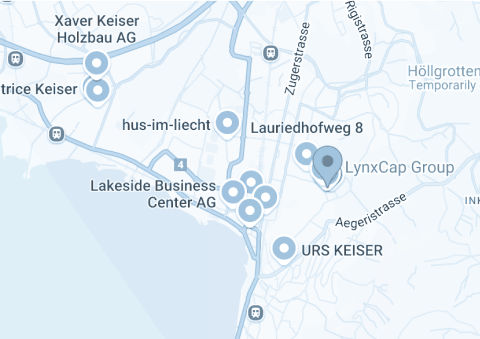
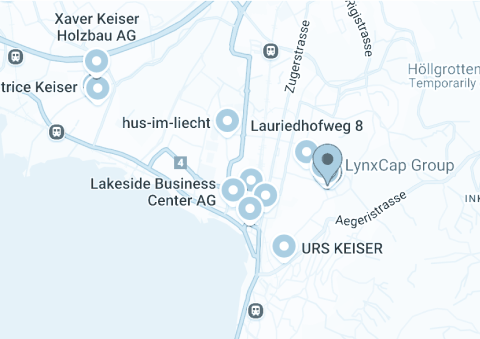
fixes after review

diff --git a/src/index.js b/src/index.js
@@ -3,18 +3,18 @@ import './index.css';
 const init = () => {
   const elements = {
     burger: document.querySelector('[data-id="open-nav"]'),
-    close: document.querySelector('[data-id="close-nav"]'),
+    closeNav: document.querySelector('[data-id="close-nav"]'),
     mobileNav: document.querySelector('[data-id="mobile-nav"]'),
     termsTrigger: document.querySelector('[data-id="terms-trigger"]'),
     termsOverlay: document.querySelector('[data-id="terms-overlay"]'),
-    termsClose: document.querySelectorAll('[data-id="terms-close"]'),
+    termsClose: document.querySelectorAll('[data-id="terms-close"]') || [],
     termsContent: document.querySelector('[data-id="terms"]'),
-    accordionItems: document.querySelectorAll('[data-id="accordion-item'),
+    accordionItems: document.querySelectorAll('[data-id="accordion-item') || [],
     requestOverlay: document.querySelector('[data-id="request-modal-overlay"]'),
     requestModalTrigger: document.querySelector('[data-id="request-modal-trigger"]'),
-    requestModalClose: document.querySelectorAll('[data-id="request-modal-close"]'),
-    teamModalTrigger: document.querySelectorAll('[data-id="team-trigger"]'),
-    teamModalClose: document.querySelectorAll('[data-id="team-close"]'),
+    requestModalClose: document.querySelectorAll('[data-id="request-modal-close"]') || [],
+    teamModalTrigger: document.querySelectorAll('[data-id="team-trigger"]') || [],
+    teamModalClose: document.querySelectorAll('[data-id="team-close"]') || [],
     teamModalOverlay: document.querySelector('[data-id="team-overlay"]'),
     teamContent: document.querySelector('[data-id="team"]')
   };
@@ -29,36 +29,36 @@ const init = () => {
 
   const app = {
     openTerms() {
-      elements.termsOverlay.classList.remove(classes.hidden);
-      document.body.classList.add(classes.noScroll);
+      elements.termsOverlay?.classList.remove(classes.hidden);
+      document.body?.classList.add(classes.noScroll);
       setTimeout(() => {
-        elements.termsContent.classList.remove(classes.termsHidden);
+        elements.termsContent?.classList.remove(classes.termsHidden);
       });
     },
     closeTerms() {
-      elements.termsOverlay.classList.add(classes.hidden);
-      elements.termsContent.classList.add(classes.termsHidden);
+      elements.termsOverlay?.classList.add(classes.hidden);
+      elements.termsContent?.classList.add(classes.termsHidden);
       document.body.classList.remove(classes.noScroll);
     },
     openRequestModal() {
-      elements.requestOverlay.classList.remove(classes.hidden);
+      elements.requestOverlay?.classList.remove(classes.hidden);
       document.body.classList.add(classes.noScroll);
     },
     closeRequestModal() {
-      elements.requestOverlay.classList.add(classes.hidden);
+      elements.requestOverlay?.classList.add(classes.hidden);
       document.body.classList.remove(classes.noScroll);
     },
 
     openTeamModal() {
-      elements.teamModalOverlay.classList.remove(classes.hidden);
+      elements.teamModalOverlay?.classList.remove(classes.hidden);
       document.body.classList.add(classes.noScroll);
       setTimeout(() => {
-        elements.teamContent.classList.remove(classes.termsHidden);
+        elements.teamContent?.classList.remove(classes.termsHidden);
       });
     },
     closeTeamModal() {
-      elements.teamModalOverlay.classList.add(classes.hidden);
-      elements.teamContent.classList.add(classes.termsHidden);
+      elements.teamModalOverlay?.classList.add(classes.hidden);
+      elements.teamContent?.classList.add(classes.termsHidden);
       document.body.classList.remove(classes.noScroll);
     }
   };
@@ -74,15 +74,15 @@ const init = () => {
     });
   });
 
-  elements.burger.addEventListener('click', () => {
-    elements.mobileNav.classList.remove(classes.menuHidden);
+  elements.burger?.addEventListener('click', () => {
+    elements.mobileNav?.classList.remove(classes.menuHidden);
   });
 
-  elements.close.addEventListener('click', () => {
-    elements.mobileNav.classList.add(classes.menuHidden);
+  elements.closeNav?.addEventListener('click', () => {
+    elements.mobileNav?.classList.add(classes.menuHidden);
   });
 
-  elements.termsTrigger.addEventListener('click', () => {
+  elements.termsTrigger?.addEventListener('click', () => {
     app.openTerms();
   });
 
@@ -98,7 +98,7 @@ const init = () => {
     });
   });
 
-  elements.requestModalTrigger.addEventListener('click', () => {
+  elements.requestModalTrigger?.addEventListener('click', () => {
     app.openRequestModal();
   });
 

diff --git a/src/styles/common.css b/src/styles/common.css
@@ -17,6 +17,7 @@ img {
   border: 1px solid var(--color-dark-blue);
   cursor: pointer;
   transition: all 0.3s;
+  font-weight: 500;
   &:hover {
     background: var(--color-violet-1);
     border-color: var(--color-violet-1);
@@ -31,8 +32,14 @@ img {
 
 .zoomable {
   .img-wrap {
-    max-width: 300px;
+    max-width: 50%;
     overflow: hidden;
+  }
+
+  @media (min-width: theme('screens.desktop')) {
+    .img-wrap {
+      max-width: 100%;
+    }
   }
 
   img {

diff --git a/src/pages/contacts.css b/src/pages/contacts.css
@@ -3,17 +3,17 @@
   background-size: cover;
   padding: 48px 16px;
   position: relative;
-  min-height: 472px;
 }
 
 @media (min-width: theme('screens.desktop')) {
   .blue-banner {
-    padding: 72px 100px;
+    padding: 72px 100px 50px;
   }
 }
 
 .map {
     padding: 10px 0;
+    opacity: .7;
     img {
         max-width: 100%;
     }

diff --git a/src/pages/article.css b/src/pages/article.css
@@ -30,6 +30,16 @@
       font-size: 16px;
     }
   }
+
+  img {
+    max-width: 85%;
+  }
+
+  @media (min-width: theme('screens.desktop')) {
+    img {
+      max-width: 100%;
+    }
+  }
 }
 
 @media (min-width: theme('screens.desktop')) {

diff --git a/src/styles/theme.css b/src/styles/theme.css
@@ -26,6 +26,9 @@
   --font-serif: 'ivar', serif;
   --font-sans: 'larsseit', sans-serif;
 
+  /* 28 px */
+  --text-2xl: 1.75rem; 
+
   --breakpoint-*: initial;
   --breakpoint-desktop: 1180px;
   --breakpoint-large: 1370px;

diff --git a/src/pages/news.css b/src/pages/news.css
@@ -29,7 +29,7 @@
   }
 
   .news-grid {
-    gap: 100px;
+    gap: 70px;
     margin-top: 64px;
     grid-template-columns: 1fr 1fr 1fr;
   }
